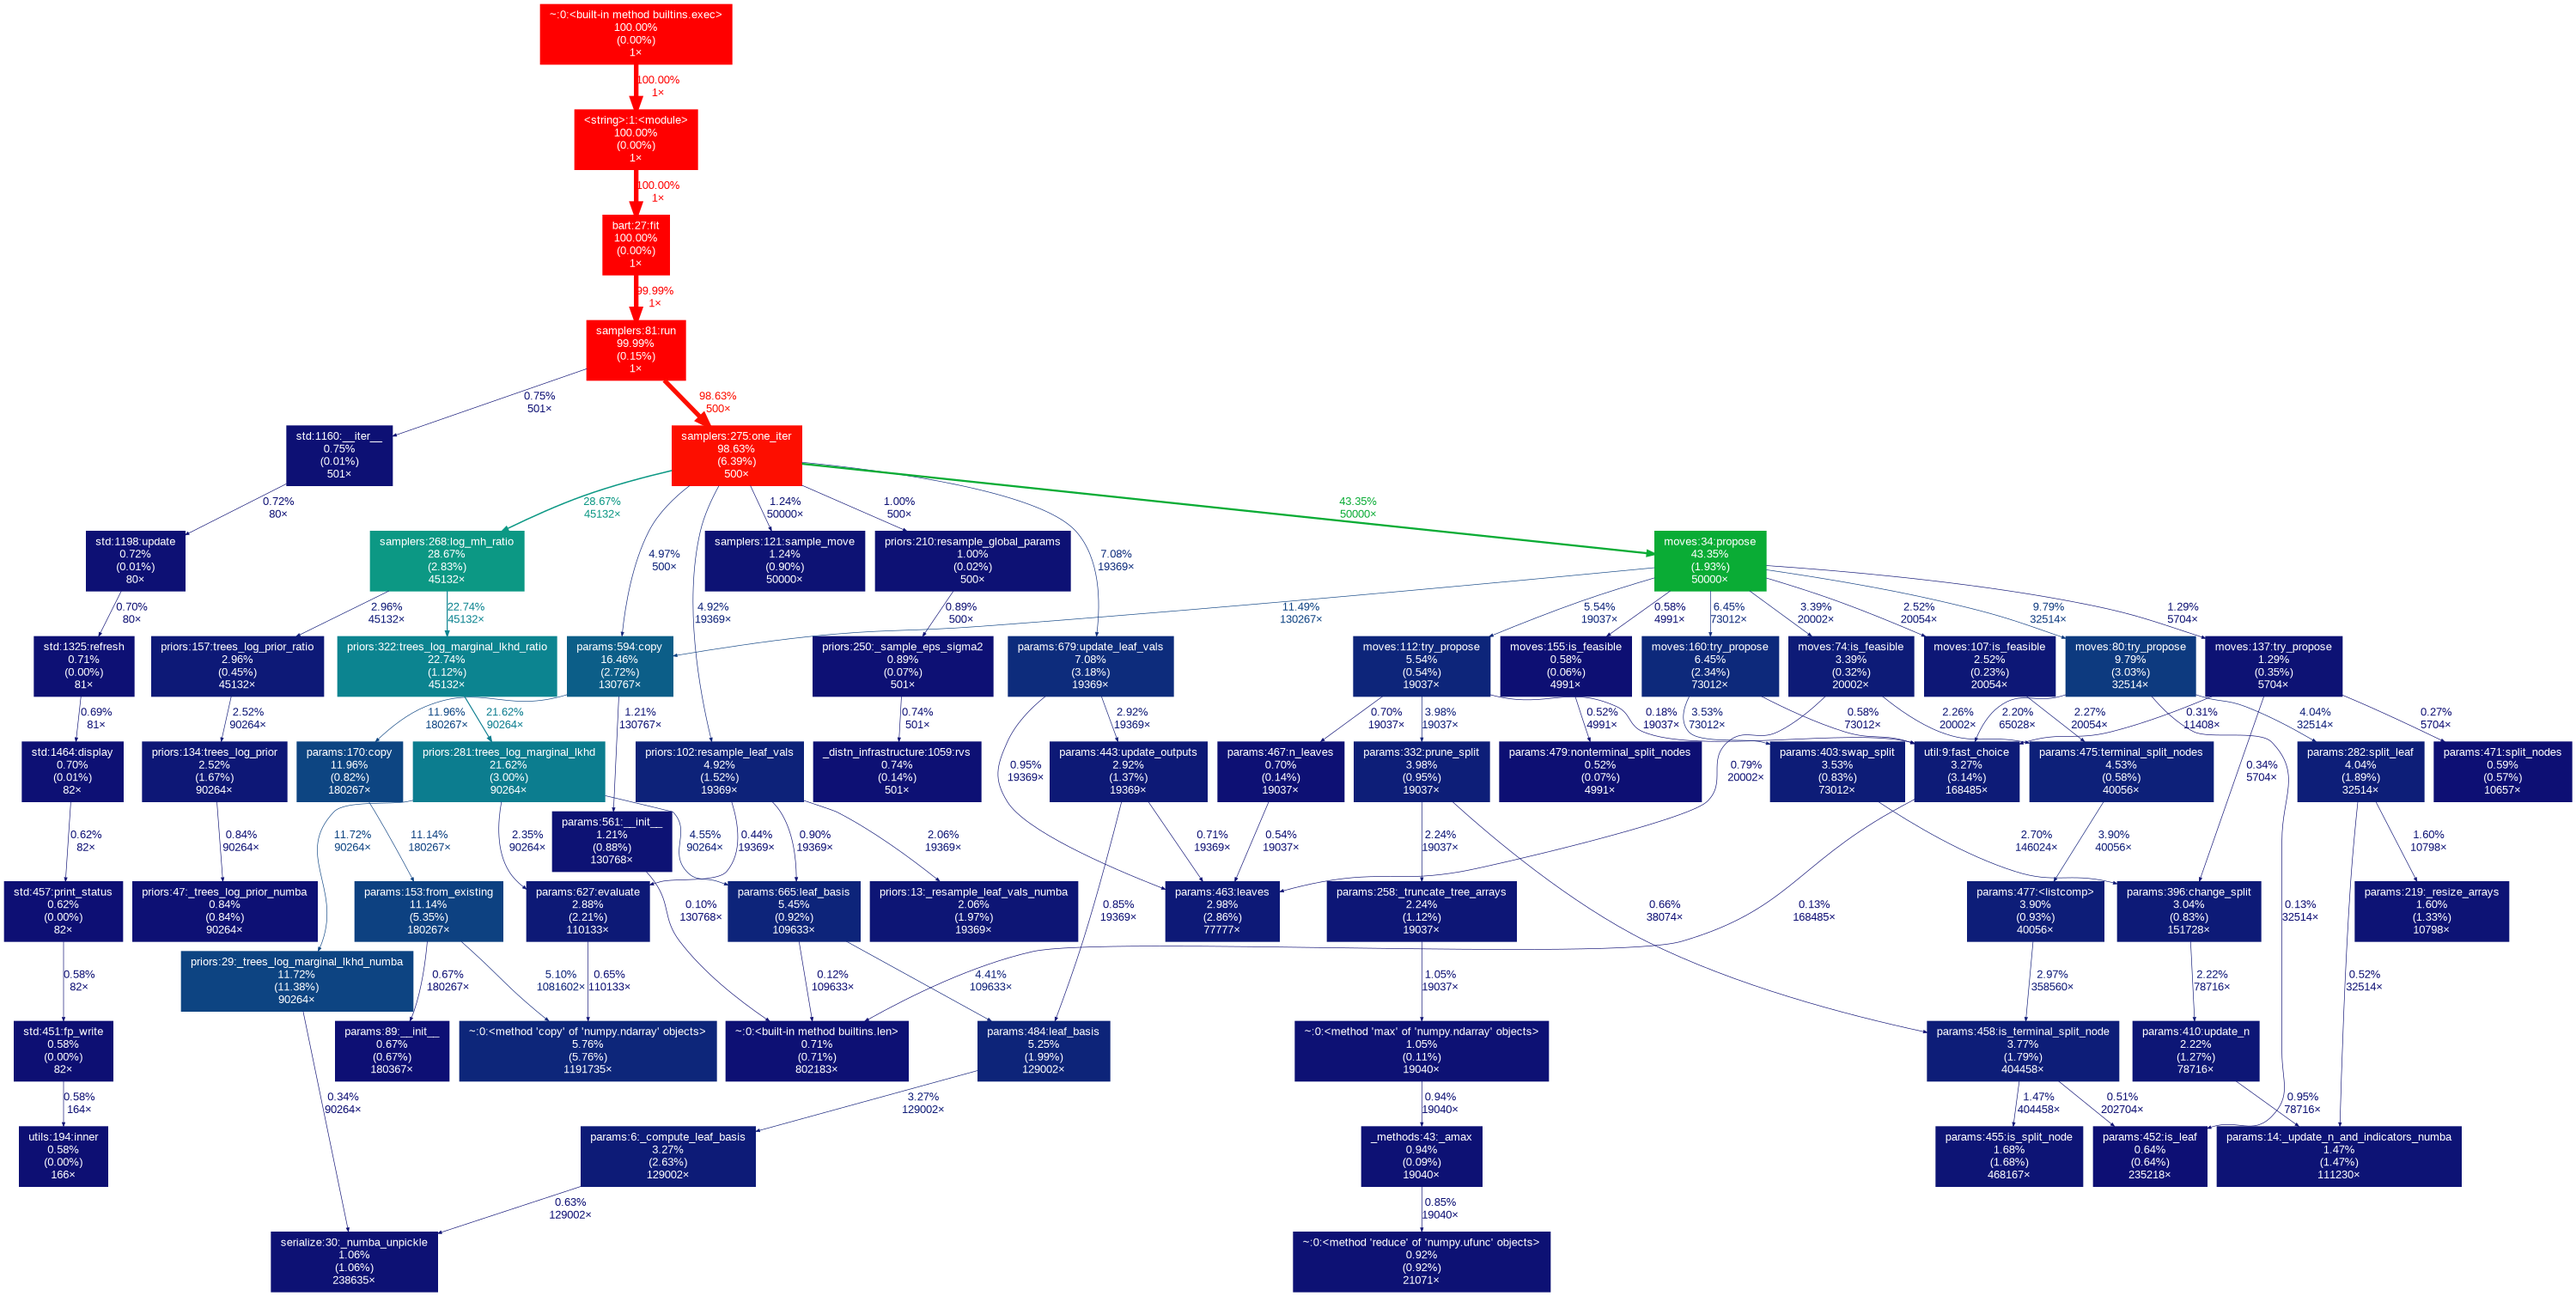
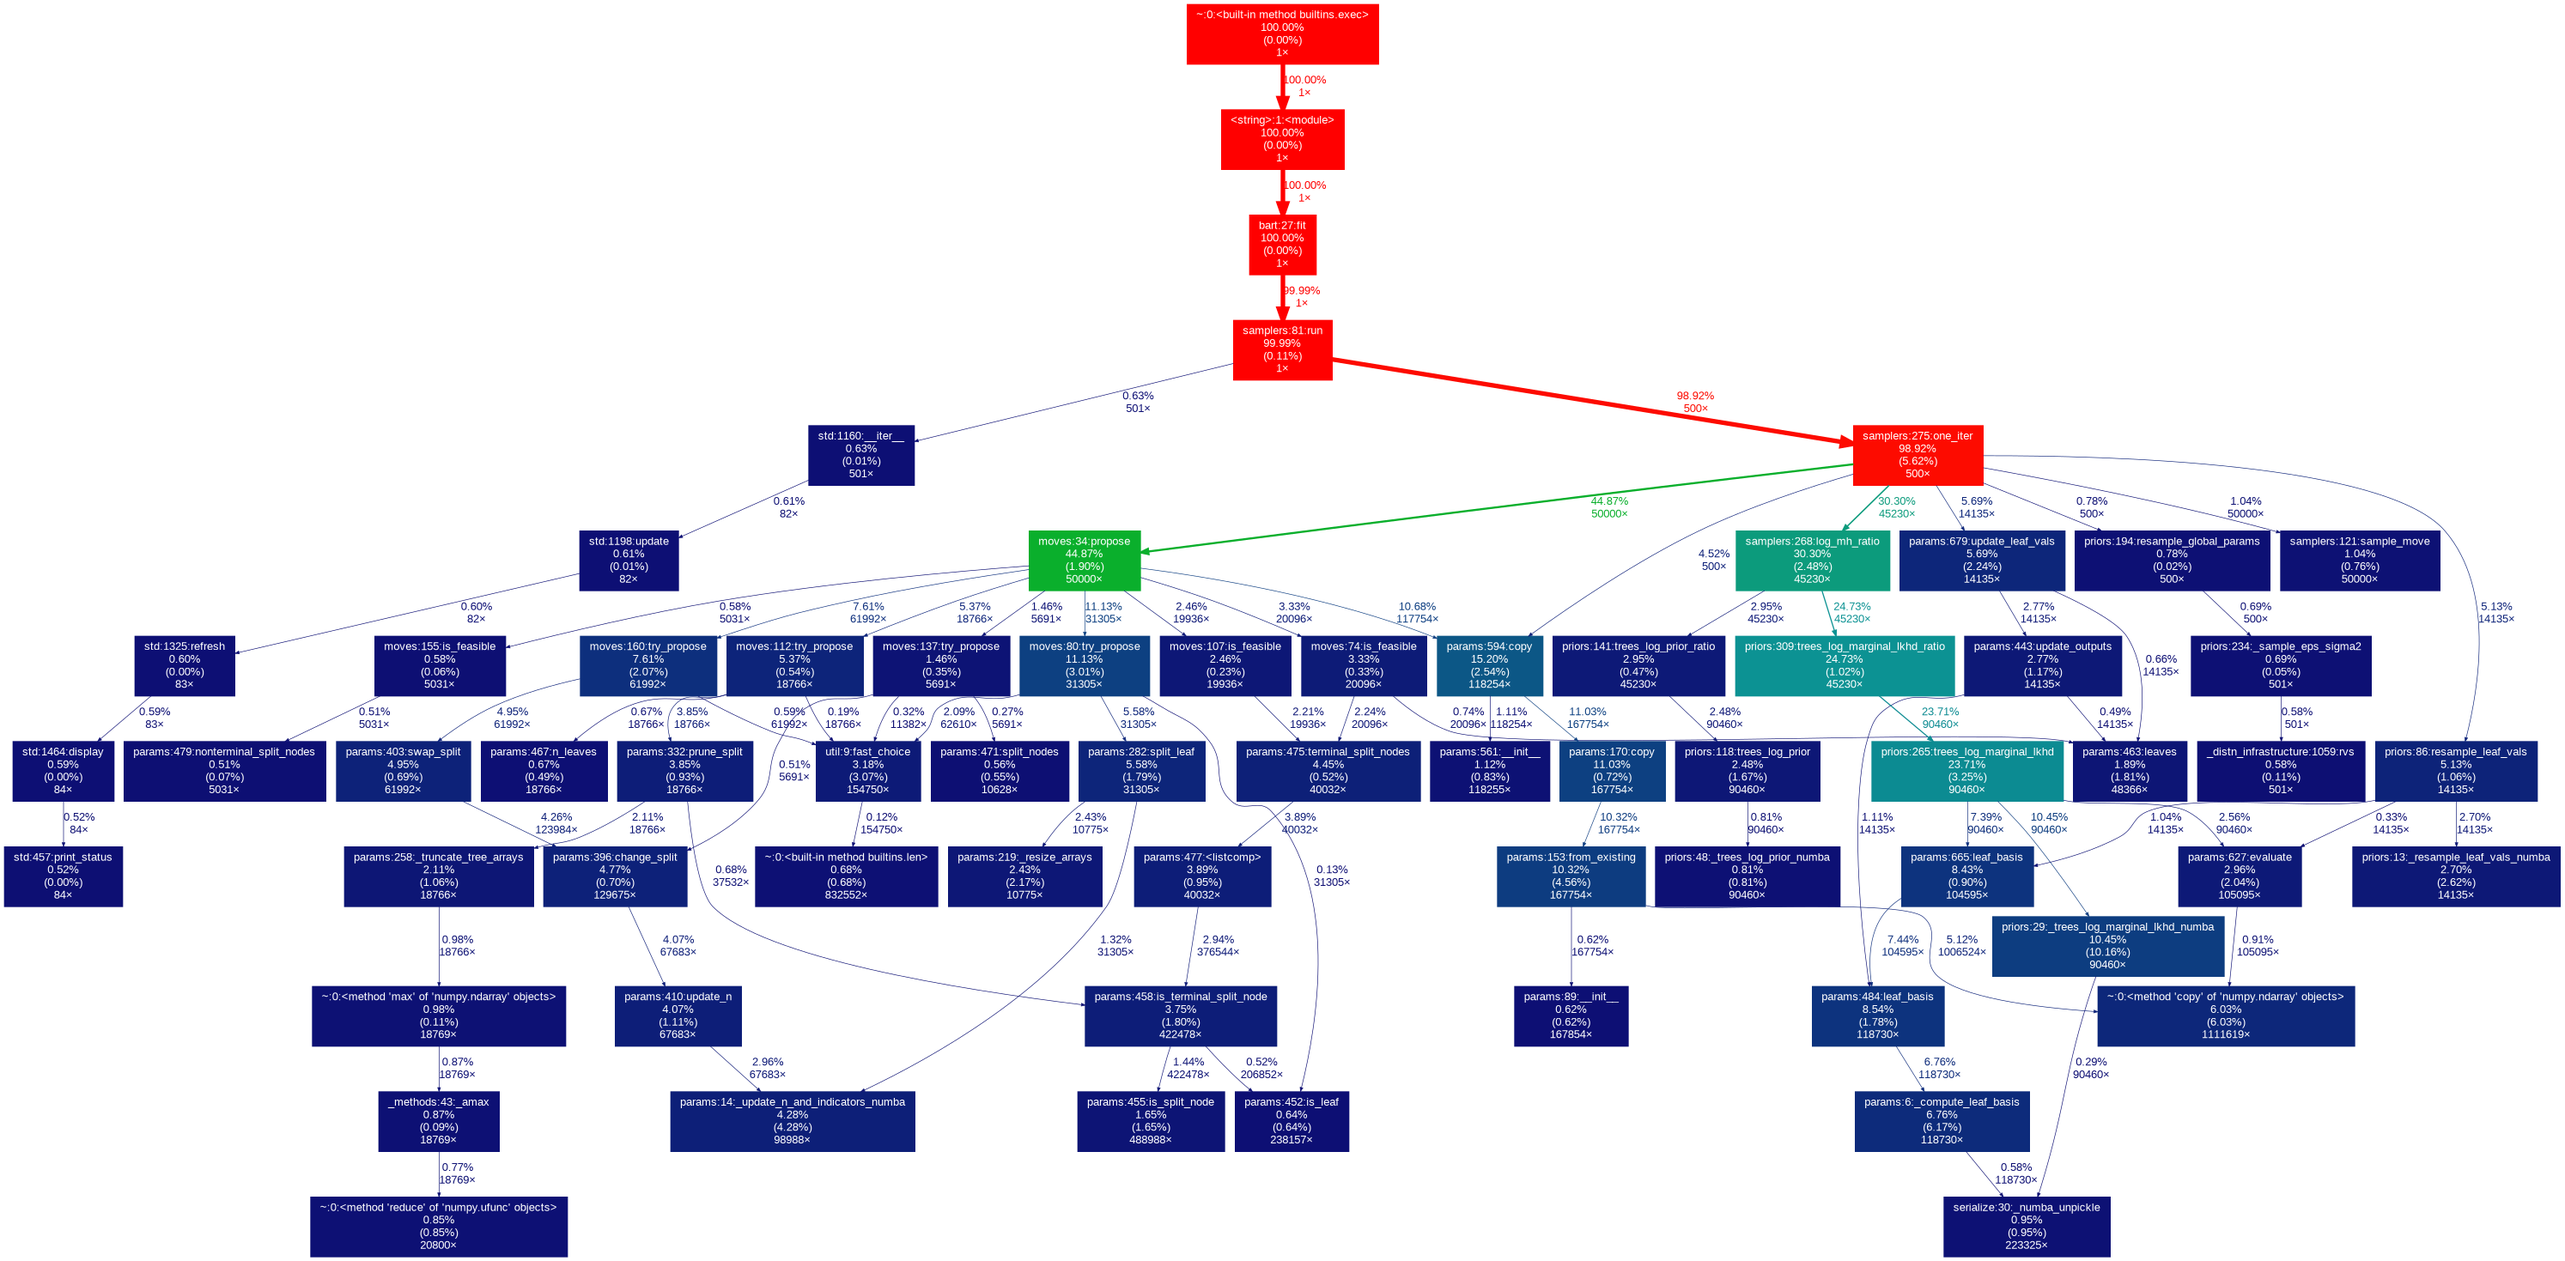
Improve large-sample DefaultBART speed by avoiding svd

diff --git a/bart_playground/priors.py b/bart_playground/priors.py
@@ -33,36 +33,21 @@ def _trees_log_marginal_lkhd_numba(leaf_basis, resids, eps_sigma2, f_sigma2):
     """
     # Explicitly convert boolean array to float32
     leaf_basis_float = leaf_basis.astype(np.float32)
-    
-    # Now use the float32 array with SVD
-    U, S, _ = np.linalg.svd(leaf_basis_float, full_matrices=False)
+    # Suppose each row of leaf_basis sums to 1,
+    # so we can use counts instead of svd.
+    counts = leaf_basis_float.sum(axis=0)
     noise_ratio = eps_sigma2 / f_sigma2
-    logdet = np.sum(np.log(S ** 2 / noise_ratio + 1))
-    resid_u_coefs = U.T @ resids
-    resids_u = U @ resid_u_coefs
-    ls_resids = np.sum((resids - resids_u) ** 2)
-    ridge_bias = np.sum(resid_u_coefs ** 2 / (S ** 2 / noise_ratio + 1))
+    logdet = np.sum(np.log(counts / noise_ratio + 1))
+    # resid_u_coefs is resid_sums / sqrt(counts)
+    resid_sums = leaf_basis_float.T @ resids
+    ls_resids = np.sum(resids ** 2) - np.sum((resid_sums ** 2) / counts)
+
+    ridge_bias = np.sum(resid_sums ** 2 / (counts * (counts / noise_ratio + 1)))
+
     return - (logdet + (ls_resids + ridge_bias) / eps_sigma2) / 2
 
 @njit
 def _trees_log_prior_numba(tree_vars, alpha, beta):
-    """
-    Numba-optimized function to calculate log prior probability of a tree.
-    
-    Parameters:
-    -----------
-    tree_vars : numpy.ndarray
-        An array of variables used for splitting at each node.
-    alpha : float
-        Alpha parameter for the tree prior.
-    beta : float
-        Beta parameter for the tree prior.
-        
-    Returns:
-    --------
-    float
-        The log prior probability of the tree.
-    """
     # Calculate depth for each node
     d = np.ceil(np.log2(np.arange(len(tree_vars)) + 2)) - 1
     # Calculate log probability of split
@@ -310,8 +295,11 @@ class BARTLikelihood:
         """
         resids = (data_y - bart_params.evaluate(all_except=tree_ids))
         leaf_basis = bart_params.leaf_basis(tree_ids)
-        
-        # Use the standalone numba function instead
+        # Assert tree_ids has length 1 so that leaf_basis's each row sums to 1
+        if len(tree_ids) != 1:
+            raise NotImplementedError("Log marginal likelihood calculation only supports single tree evaluation for faster computation.")
+
+        # Use the standalone numba function
         return _trees_log_marginal_lkhd_numba(
             leaf_basis, 
             resids, 

diff --git a/bart_playground/params.py b/bart_playground/params.py
@@ -466,7 +466,7 @@ class Tree:
 
     @property
     def n_leaves(self):
-        return len(self.leaves)
+        return np.count_nonzero(self.vars == -1)
     
     @property
     def split_nodes(self):
